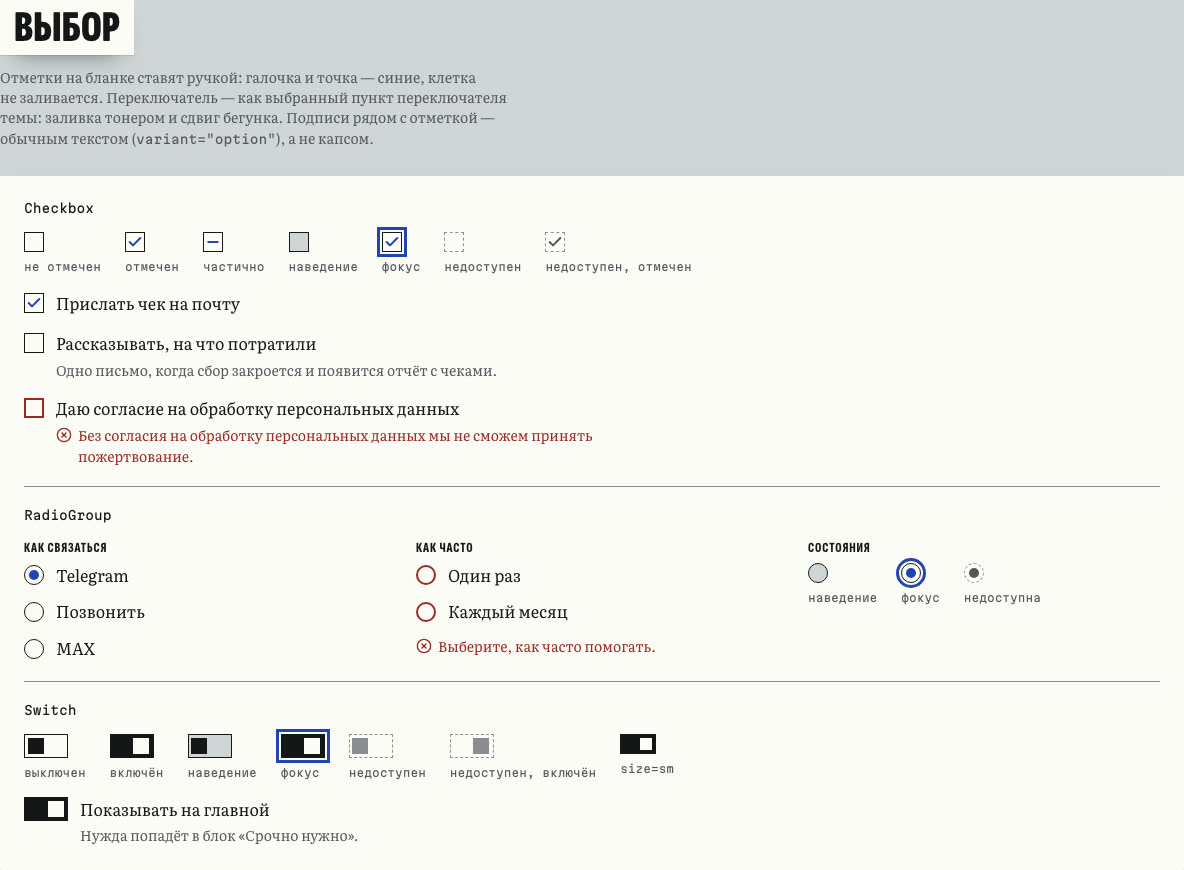
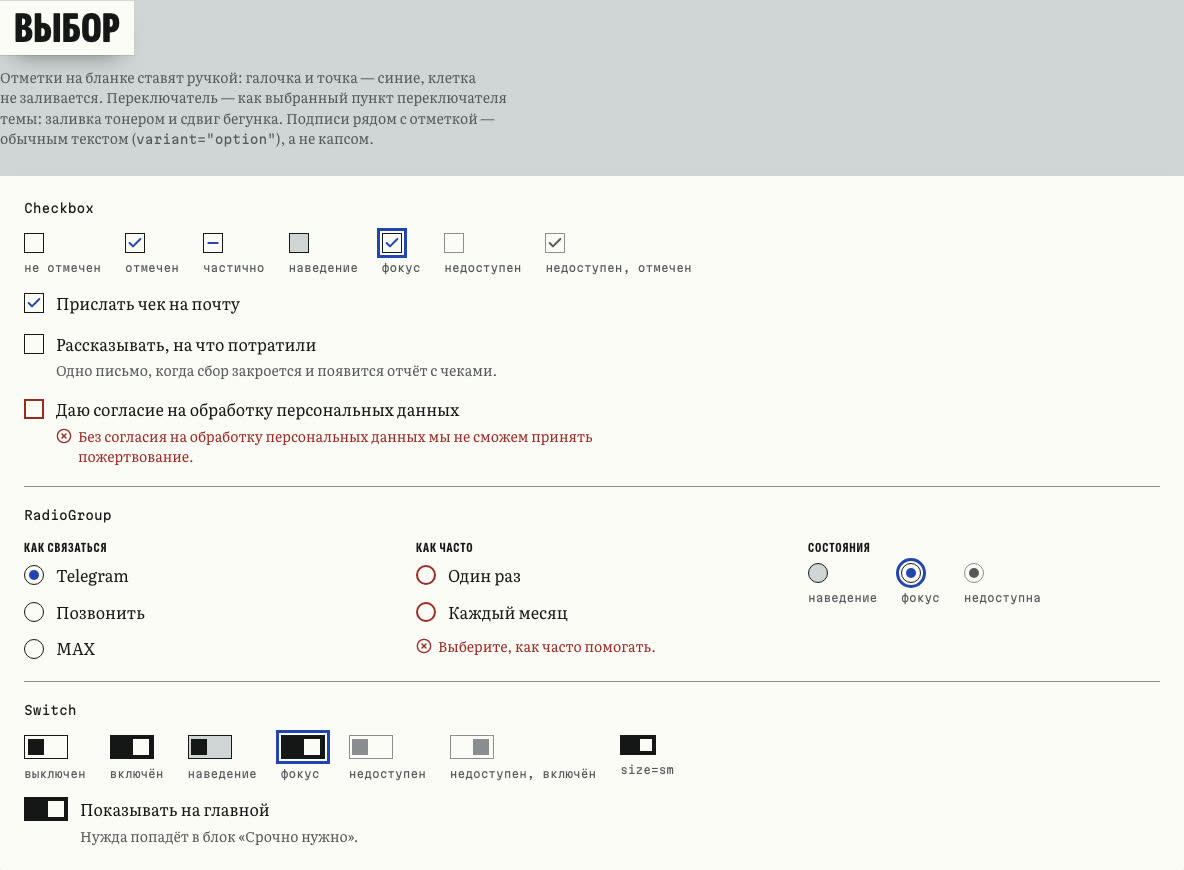
fix(ui): draw disabled controls with a solid frame, not dashes
Owner's decision in DS-2: dashes mean the tear-off perforation and «Низкая»
urgency only. Disabled buttons, checkboxes, radios and switches keep a thin
solid perforation frame with pale text; disabled fields, selects and tabs
let the board show through. Screenshots refreshed.

diff --git a/src/components/ui/button.tsx b/src/components/ui/button.tsx
@@ -8,7 +8,8 @@ import { cn } from "@/lib/utils";
  * Buttons of the «Объявление» direction (docs/design.md#формы-и-материал):
  * square, display font in caps, toner for actions and yellow paper only for
  * «Помочь». Focus is the global 3 px pen outline from globals.css. A disabled
- * button loses its fill and gets a dashed frame; a loading one keeps its look.
+ * button loses its fill and keeps a thin solid perforation frame (dashes belong
+ * to tear-off tabs and low urgency); a loading one keeps its look.
  */
 const buttonVariants = cva(
   [
@@ -16,7 +17,7 @@ const buttonVariants = cva(
     "transition-[translate,box-shadow,background-color,border-color,color] duration-150 ease-out",
     "active:not-aria-[haspopup]:not-data-disabled:translate-y-px",
     "aria-busy:cursor-progress data-disabled:cursor-not-allowed",
-    "data-disabled:not-aria-busy:border-dashed data-disabled:not-aria-busy:border-perforation data-disabled:not-aria-busy:bg-transparent data-disabled:not-aria-busy:text-toner-muted data-disabled:not-aria-busy:shadow-none",
+    "data-disabled:not-aria-busy:border-line data-disabled:not-aria-busy:border-perforation data-disabled:not-aria-busy:bg-transparent data-disabled:not-aria-busy:text-toner-muted data-disabled:not-aria-busy:shadow-none",
     "[&_svg]:pointer-events-none [&_svg]:shrink-0 [&_svg:not([class*='size-'])]:size-4",
   ],
   {
@@ -33,7 +34,7 @@ const buttonVariants = cva(
         ghost: "text-foreground hover:bg-accent aria-expanded:bg-accent",
         destructive:
           "border-destructive bg-background text-destructive hover:bg-[color-mix(in_oklab,var(--destructive),var(--background)_88%)]",
-        link: "border-0 font-body text-body text-pen normal-case underline decoration-[1.5px] underline-offset-[3px] hover:decoration-[3px] data-disabled:not-aria-busy:no-underline",
+        link: "border-0 font-body text-body text-pen normal-case underline decoration-[1.5px] underline-offset-[3px] hover:decoration-[3px] data-disabled:not-aria-busy:border-0 data-disabled:not-aria-busy:no-underline",
       },
       size: {
         default: "min-h-11 px-4 py-2",

diff --git a/src/components/ui/tabs.tsx b/src/components/ui/tabs.tsx
@@ -65,8 +65,8 @@ function TabsTrigger({ className, ...props }: TabsPrimitive.Tab.Props) {
         // Equal segments that may shrink: a long word hyphenates inside its
         // tab instead of widening the page. Line tabs keep their own width.
         "relative inline-flex min-h-11 min-w-0 flex-1 items-center justify-center gap-1.5 px-3 text-center font-display text-label hyphens-auto text-foreground uppercase transition-colors duration-150 ease-out select-none group-data-vertical/tabs:justify-start focus-visible:z-10",
-        // Disabled is dashed, like every other disabled control, not only paler.
-        "data-disabled:cursor-not-allowed data-disabled:text-muted-foreground data-disabled:underline data-disabled:decoration-dashed data-disabled:decoration-1 data-disabled:underline-offset-4 forced-colors:data-disabled:text-[GrayText]",
+        // Disabled: the board shows through, not only a paler word.
+        "data-disabled:cursor-not-allowed data-disabled:bg-muted data-disabled:text-muted-foreground forced-colors:data-disabled:text-[GrayText]",
         "[&_svg]:pointer-events-none [&_svg]:shrink-0 [&_svg:not([class*='size-'])]:size-4",
         // default: segments divided by toner lines; the active one is filled.
         "group-data-[variant=default]/tabs-list:not-first:border-l-line group-data-[variant=default]/tabs-list:not-first:border-foreground group-data-vertical/tabs:group-data-[variant=default]/tabs-list:not-first:border-t-line group-data-vertical/tabs:group-data-[variant=default]/tabs-list:not-first:border-l-0",

diff --git a/src/app/dev/ui/sections/buttons.tsx b/src/app/dev/ui/sections/buttons.tsx
@@ -90,9 +90,10 @@ export function ButtonsSection() {
       description={
         <>
           <code className="font-mono text-mono">Button</code>: прямоугольные,
-          акцидентный шрифт капсом. Недоступная теряет заливку и&nbsp;получает
-          пунктир; при загрузке кнопка сохраняет вид и&nbsp;фокус, клики
-          блокируются (<code className="font-mono text-mono">loading</code>).
+          акцидентный шрифт капсом. Недоступная теряет заливку, рамка&nbsp;—
+          тонкая сплошная: пунктир остаётся язычкам и&nbsp;«Низкой» срочности;
+          при загрузке кнопка сохраняет вид и&nbsp;фокус, клики блокируются (
+          <code className="font-mono text-mono">loading</code>).
         </>
       }
     >

diff --git a/src/components/ui/select.tsx b/src/components/ui/select.tsx
@@ -45,7 +45,7 @@ function SelectTrigger({
         "group/select-trigger",
         fieldBoxClassName,
         "flex items-center justify-between gap-2 py-2 pr-2.5 pl-3 text-left select-none data-placeholder:text-muted-foreground data-popup-open:border-foreground data-[size=default]:min-h-11 data-[size=sm]:min-h-9 data-[size=sm]:py-1",
-        "data-disabled:cursor-not-allowed data-disabled:border-dashed data-disabled:bg-transparent data-disabled:text-muted-foreground data-disabled:hover:border-input",
+        "data-disabled:cursor-not-allowed data-disabled:bg-muted data-disabled:text-muted-foreground data-disabled:hover:border-input",
         "[&_svg]:pointer-events-none [&_svg]:shrink-0 [&_svg:not([class*='size-'])]:size-4",
         className,
       )}

diff --git a/src/components/ui/input.tsx b/src/components/ui/input.tsx
@@ -12,7 +12,8 @@ const fieldBoxClassName = cn(
   "w-full min-w-0 border border-input bg-background font-body text-body text-foreground transition-[border-color,box-shadow] duration-150 ease-out",
   "placeholder:text-muted-foreground hover:border-foreground",
   "aria-invalid:border-destructive aria-invalid:shadow-[inset_0_0_0_1px_var(--destructive)]",
-  "disabled:cursor-not-allowed disabled:border-dashed disabled:bg-transparent disabled:text-muted-foreground disabled:hover:border-input",
+  // Disabled: the board shows through the box; the frame stays solid.
+  "disabled:cursor-not-allowed disabled:bg-muted disabled:text-muted-foreground disabled:hover:border-input",
 );
 
 function Input({ className, type, ...props }: React.ComponentProps<"input">) {

diff --git a/src/components/ui/checkbox.tsx b/src/components/ui/checkbox.tsx
@@ -19,7 +19,7 @@ function Checkbox({ className, ...props }: CheckboxPrimitive.Root.Props) {
         "after:absolute after:-inset-x-3 after:-inset-y-3",
         "hover:bg-accent",
         "aria-invalid:border-2 aria-invalid:border-destructive",
-        "data-disabled:cursor-not-allowed data-disabled:border-dashed data-disabled:border-input data-disabled:bg-transparent data-disabled:text-muted-foreground data-disabled:hover:bg-transparent",
+        "data-disabled:cursor-not-allowed data-disabled:border-input data-disabled:bg-transparent data-disabled:text-muted-foreground data-disabled:hover:bg-transparent",
         className,
       )}
       {...props}

diff --git a/src/components/ui/switch.tsx b/src/components/ui/switch.tsx
@@ -26,7 +26,7 @@ function Switch({
         "data-[size=default]:h-6 data-[size=default]:w-11 data-[size=sm]:h-5 data-[size=sm]:w-9",
         "hover:bg-accent data-checked:bg-foreground data-checked:hover:bg-foreground",
         "aria-invalid:border-2 aria-invalid:border-destructive",
-        "data-disabled:cursor-not-allowed data-disabled:border-dashed data-disabled:border-input data-disabled:bg-transparent data-disabled:hover:bg-transparent",
+        "data-disabled:cursor-not-allowed data-disabled:border-input data-disabled:bg-transparent data-disabled:hover:bg-transparent",
         className,
       )}
       {...props}

diff --git a/src/components/ui/radio-group.tsx b/src/components/ui/radio-group.tsx
@@ -25,7 +25,7 @@ function RadioGroupItem({ className, ...props }: RadioPrimitive.Root.Props) {
         "after:absolute after:-inset-x-3 after:-inset-y-3",
         "hover:bg-accent",
         "aria-invalid:border-2 aria-invalid:border-destructive",
-        "data-disabled:cursor-not-allowed data-disabled:border-dashed data-disabled:border-input data-disabled:bg-transparent data-disabled:hover:bg-transparent",
+        "data-disabled:cursor-not-allowed data-disabled:border-input data-disabled:bg-transparent data-disabled:hover:bg-transparent",
         className,
       )}
       {...props}

diff --git a/src/components/ui/skeleton.tsx b/src/components/ui/skeleton.tsx
@@ -9,10 +9,7 @@ function Skeleton({ className, ...props }: React.ComponentProps<"div">) {
     <div
       data-slot="skeleton"
       aria-hidden
-      className={cn(
-        "animate-pulse bg-muted forced-colors:border forced-colors:border-dashed",
-        className,
-      )}
+      className={cn("animate-pulse bg-muted forced-colors:border", className)}
       {...props}
     />
   );

diff --git a/docs/design.md b/docs/design.md
@@ -132,7 +132,7 @@
 - **Скругления:** 0 — бумага не скругляется (максимум 1 px у листа). Штампы «Собрано» и «Дома» — 4 px, наклон 4° против часовой. Кнопки прямоугольные.
 - **Тень «лист на доске»:** `0 1px 1px rgb(15 16 20 / .10), 0 14px 24px -16px rgb(15 16 20 / .55)`; в тёмной теме — та же форма. Листы не поворачиваются.
 - **Рамки:** фото «напечатано» — рамка 1 px тонером; прогресс — коробка с рамкой 1,5 px; перфорация — пунктир 1,5 px.
-- **Кнопка «Помочь»:** жёлтая бумага, рамка 2 px тонером (`notice-foreground`, в тёмной теме тоже тёмная), высота 52 px на мобильном, акцидентный шрифт капсом. Наведение — подъём на 1 px и мягкая тень листа, нажатие — сдвиг вниз без тени, недоступна — пунктирная рамка без заливки. Жёстких теней без размытия нет.
+- **Кнопка «Помочь»:** жёлтая бумага, рамка 2 px тонером (`notice-foreground`, в тёмной теме тоже тёмная), высота 52 px на мобильном, акцидентный шрифт капсом. Наведение — подъём на 1 px и мягкая тень листа, нажатие — сдвиг вниз без тени, недоступна — тонкая сплошная рамка перфорацией без заливки и бледный текст. Жёстких теней без размытия нет.
 
 ### Фото
 
@@ -178,6 +178,7 @@
 - Жёлтый где-либо, кроме кнопки «Помочь» и одного листа «Сегодня помогли».
 - Скругления 8–16 px и серые бейджи-«пилюли» из стандартных тем shadcn.
 - Язычки без действия.
+- Пунктир для недоступных элементов. Пунктир — это перфорация язычков («оторвите — действие») и «Низкая» срочность; недоступное рисуется тонкой сплошной рамкой и бледным текстом (решение владельца в DS-2).
 - Цвет как единственный носитель срочности или статуса.
 
 ### Что из чек-листа ниже сознательно разрешено
@@ -284,14 +285,14 @@
 Button, Input, Textarea, Select, Checkbox, RadioGroup, Switch, Label, Field (формы), Card, Badge, Dialog, Sheet, Tabs, Tooltip, Toaster (sonner), Skeleton, Spinner, Avatar, Separator, DropdownMenu, Popover. Добавлены через `shadcn add` и перекрашены в мир «Объявления»; дефолтный вид shadcn не остался ни у одного.
 
 - **Фокус — одно правило на весь сайт:** общий `:focus-visible` из `globals.css` (3 px ручкой, отступ 2 px). Компоненты не гасят его через `outline-none` и не рисуют свои кольца `ring-*`: контур, в отличие от `box-shadow`, виден и в контрастных темах Windows. Внутри списков (Select, меню) фокус — выделенный пункт: заливка тонером, текст цветом бумаги.
-- **Кнопки** — прямоугольные, акцидентный шрифт капсом. Варианты: `help` — «Помочь» (жёлтая бумага, рамка 2 px, всегда `size="lg"`, один раз на экране), `default` — тонер, `outline`, `secondary`, `ghost`, `destructive` — рамка и текст цветом ошибки без заливки, `link`. Размеры: `sm` (36 px, админка), `default` (44 px), `lg` (52 px), `icon`, `icon-sm`. Недоступная кнопка теряет заливку и получает пунктир. `loading` показывает спиннер и блокирует клики, но кнопка остаётся в фокусе и сохраняет вид. Длинная подпись переносится, кнопка растёт по высоте.
-- **Поля** (`Input`, `Textarea`, `Select`) — графы бланка: бумага, рамка перфорацией, при наведении — тонером, текст Literata 16 px (iOS не увеличивает страницу). Ошибка — `aria-invalid` на поле: рамка удваивается цветом ошибки, а `FieldError` под полем пишет, что случилось и что сделать, с иконкой. Подсказка к полю остаётся рядом с ошибкой. `FieldError` — не live-регион: поле ссылается на него через `aria-describedby`, а форма ставит фокус на первую ошибку; для ошибок, которые приходят позже (с сервера, по уходу с поля), — `role="alert"`. Недоступное поле — пунктир без заливки.
+- **Кнопки** — прямоугольные, акцидентный шрифт капсом. Варианты: `help` — «Помочь» (жёлтая бумага, рамка 2 px, всегда `size="lg"`, один раз на экране), `default` — тонер, `outline`, `secondary`, `ghost`, `destructive` — рамка и текст цветом ошибки без заливки, `link`. Размеры: `sm` (36 px, админка), `default` (44 px), `lg` (52 px), `icon`, `icon-sm`. Недоступная кнопка теряет заливку, рамка — тонкая сплошная перфорацией, текст бледный. `loading` показывает спиннер и блокирует клики, но кнопка остаётся в фокусе и сохраняет вид. Длинная подпись переносится, кнопка растёт по высоте.
+- **Поля** (`Input`, `Textarea`, `Select`) — графы бланка: бумага, рамка перфорацией, при наведении — тонером, текст Literata 16 px (iOS не увеличивает страницу). Ошибка — `aria-invalid` на поле: рамка удваивается цветом ошибки, а `FieldError` под полем пишет, что случилось и что сделать, с иконкой. Подсказка к полю остаётся рядом с ошибкой. `FieldError` — не live-регион: поле ссылается на него через `aria-describedby`, а форма ставит фокус на первую ошибку; для ошибок, которые приходят позже (с сервера, по уходу с поля), — `role="alert"`. Недоступное поле — «доска сквозь лист»: заливка цветом доски, рамка сплошная, текст бледный.
 - **Метки** (`Label`, `FieldLabel`): `variant="field"` (по умолчанию) — короткая метка капсом над полем; `variant="option"` — обычный текст рядом с отметкой. Длинный капс кричит.
 - **Отметки ставят ручкой:** галочка Checkbox и точка RadioGroup — цвета `pen`, клетка не заливается; галочки в списках Select и меню — тоже ручкой, а выбранный пункт-радио в меню — точка. Switch — рамка тонера, включённый залит тонером, как выбранный пункт переключателя темы; положение бегунка говорит о состоянии без цвета.
 - **Формы** — react-hook-form + zod + `Field`: `Controller` вокруг поля, `data-invalid` на `Field`, `aria-invalid` и `aria-describedby` на поле, `FieldError` с ошибкой. Валидация при отправке, потом при вводе; первая ошибка получает фокус, введённое не теряется. Пример — форма на витрине.
 - **Слои.** Dialog и Sheet — лист бумаги над затемнённой доской `bg-scrim/40`, без размытия; в тёмной теме у листа рамка. Шторка снизу учитывает `safe-area-inset-bottom`. Popover, DropdownMenu, всплывающий список Select и тосты — листки в рамке тонера с тенью `shadow-sheet`. Tooltip — плашка тонера, открывается через 300 мс (`TooltipProvider`) и не перекрывает фокус кнопки; на телефоне подсказку не видно, важное в неё не кладём. Всплывающие слои держатся в 16 px от края экрана. В подвале диалога кнопки идут в порядке DOM: визуальный порядок совпадает с порядком фокуса. Esc закрывает любой слой, фокус возвращается на кнопку, которая его открыла.
 - **Тосты** — `<Toaster />` из `@/components/ui/sonner` (место в layout — DS-5 и FND-7). Вид sonner выключен (`unstyled`): тост следует палитре и теме сам. Состояние передают иконка и слово, чернила красят только иконку. Тосты лежат под диалогами и шторками (z-index 40 против 50) и не закрывают их кнопки: ошибку внутри слоя — например, «Платёж не прошёл» в `DonateSheet` — показываем в самом слое, а не тостом. На телефоне тосты учитывают `safe-area-inset-bottom`; тост с действием живёт 10 с.
-- **Карточки и метки.** Card — лист на доске: одна тень, без рамки; не вкладывается в другой лист. Badge — плашка тонера, рамка или тихая рамка перфорацией, капсом; статус — всегда иконка и слово. Avatar — квадратное «напечатанное» фото в рамке тонера, без фото — инициалы. Tabs по умолчанию — полоса в рамке тонера с залитой активной вкладкой, `line` — слова с подчёркиванием 3 px; недоступная вкладка подчёркнута пунктиром, длинное слово переносится внутри вкладки.
+- **Карточки и метки.** Card — лист на доске: одна тень, без рамки; не вкладывается в другой лист. Badge — плашка тонера, рамка или тихая рамка перфорацией, капсом; статус — всегда иконка и слово. Avatar — квадратное «напечатанное» фото в рамке тонера, без фото — инициалы. Tabs по умолчанию — полоса в рамке тонера с залитой активной вкладкой, `line` — слова с подчёркиванием 3 px; недоступная вкладка залита цветом доски, длинное слово переносится внутри вкладки.
 - **Загрузка** — Skeleton по форме контента (цвет доски, `aria-hidden`; у области — `aria-busy` и скрытое «Загрузка…»). Spinner — только внутри кнопки или строки и всегда со словом: при `prefers-reduced-motion` он не крутится.
 - **Витрина показывает настоящие состояния.** Компонент `PseudoStates` (`src/app/dev/ui/`) копирует правила `:hover`, `:focus-visible` и `:active` из CSS страницы под атрибут `data-preview`, поэтому `<Button data-preview="hover">` выглядит наведённой. Хелпер живёт только в витрине: компоненты о нём не знают. В production `/dev/ui` отдаёт 404, но клиентские чанки витрины `next build` всё равно собирает в `.next/static`; ни одна страница их не загружает.
 
